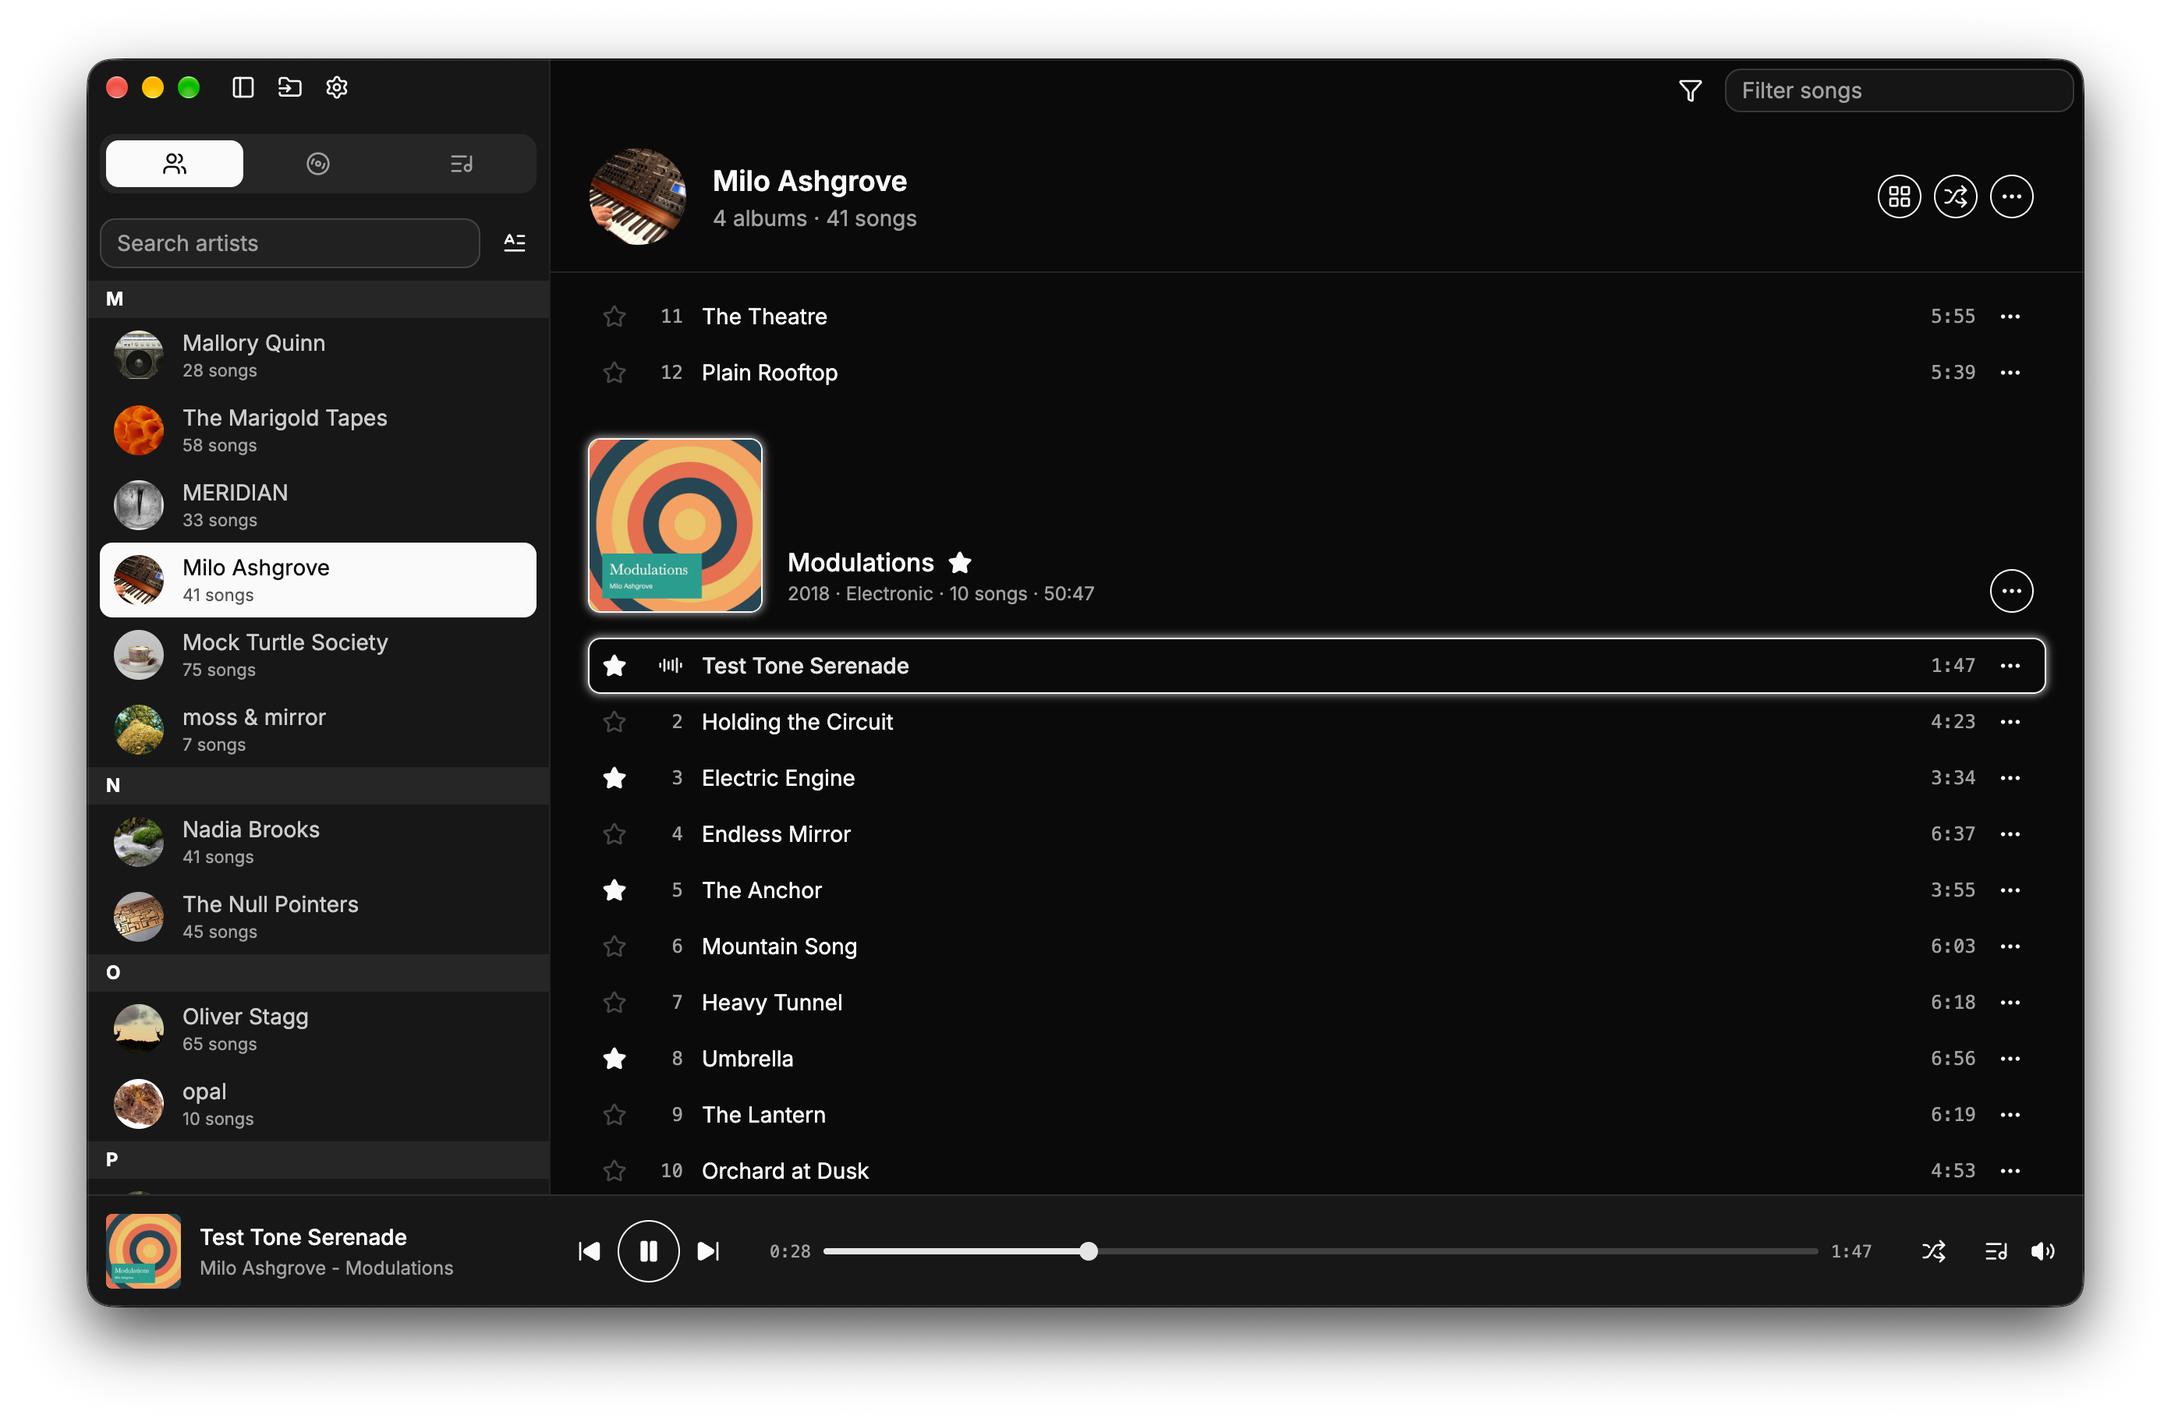
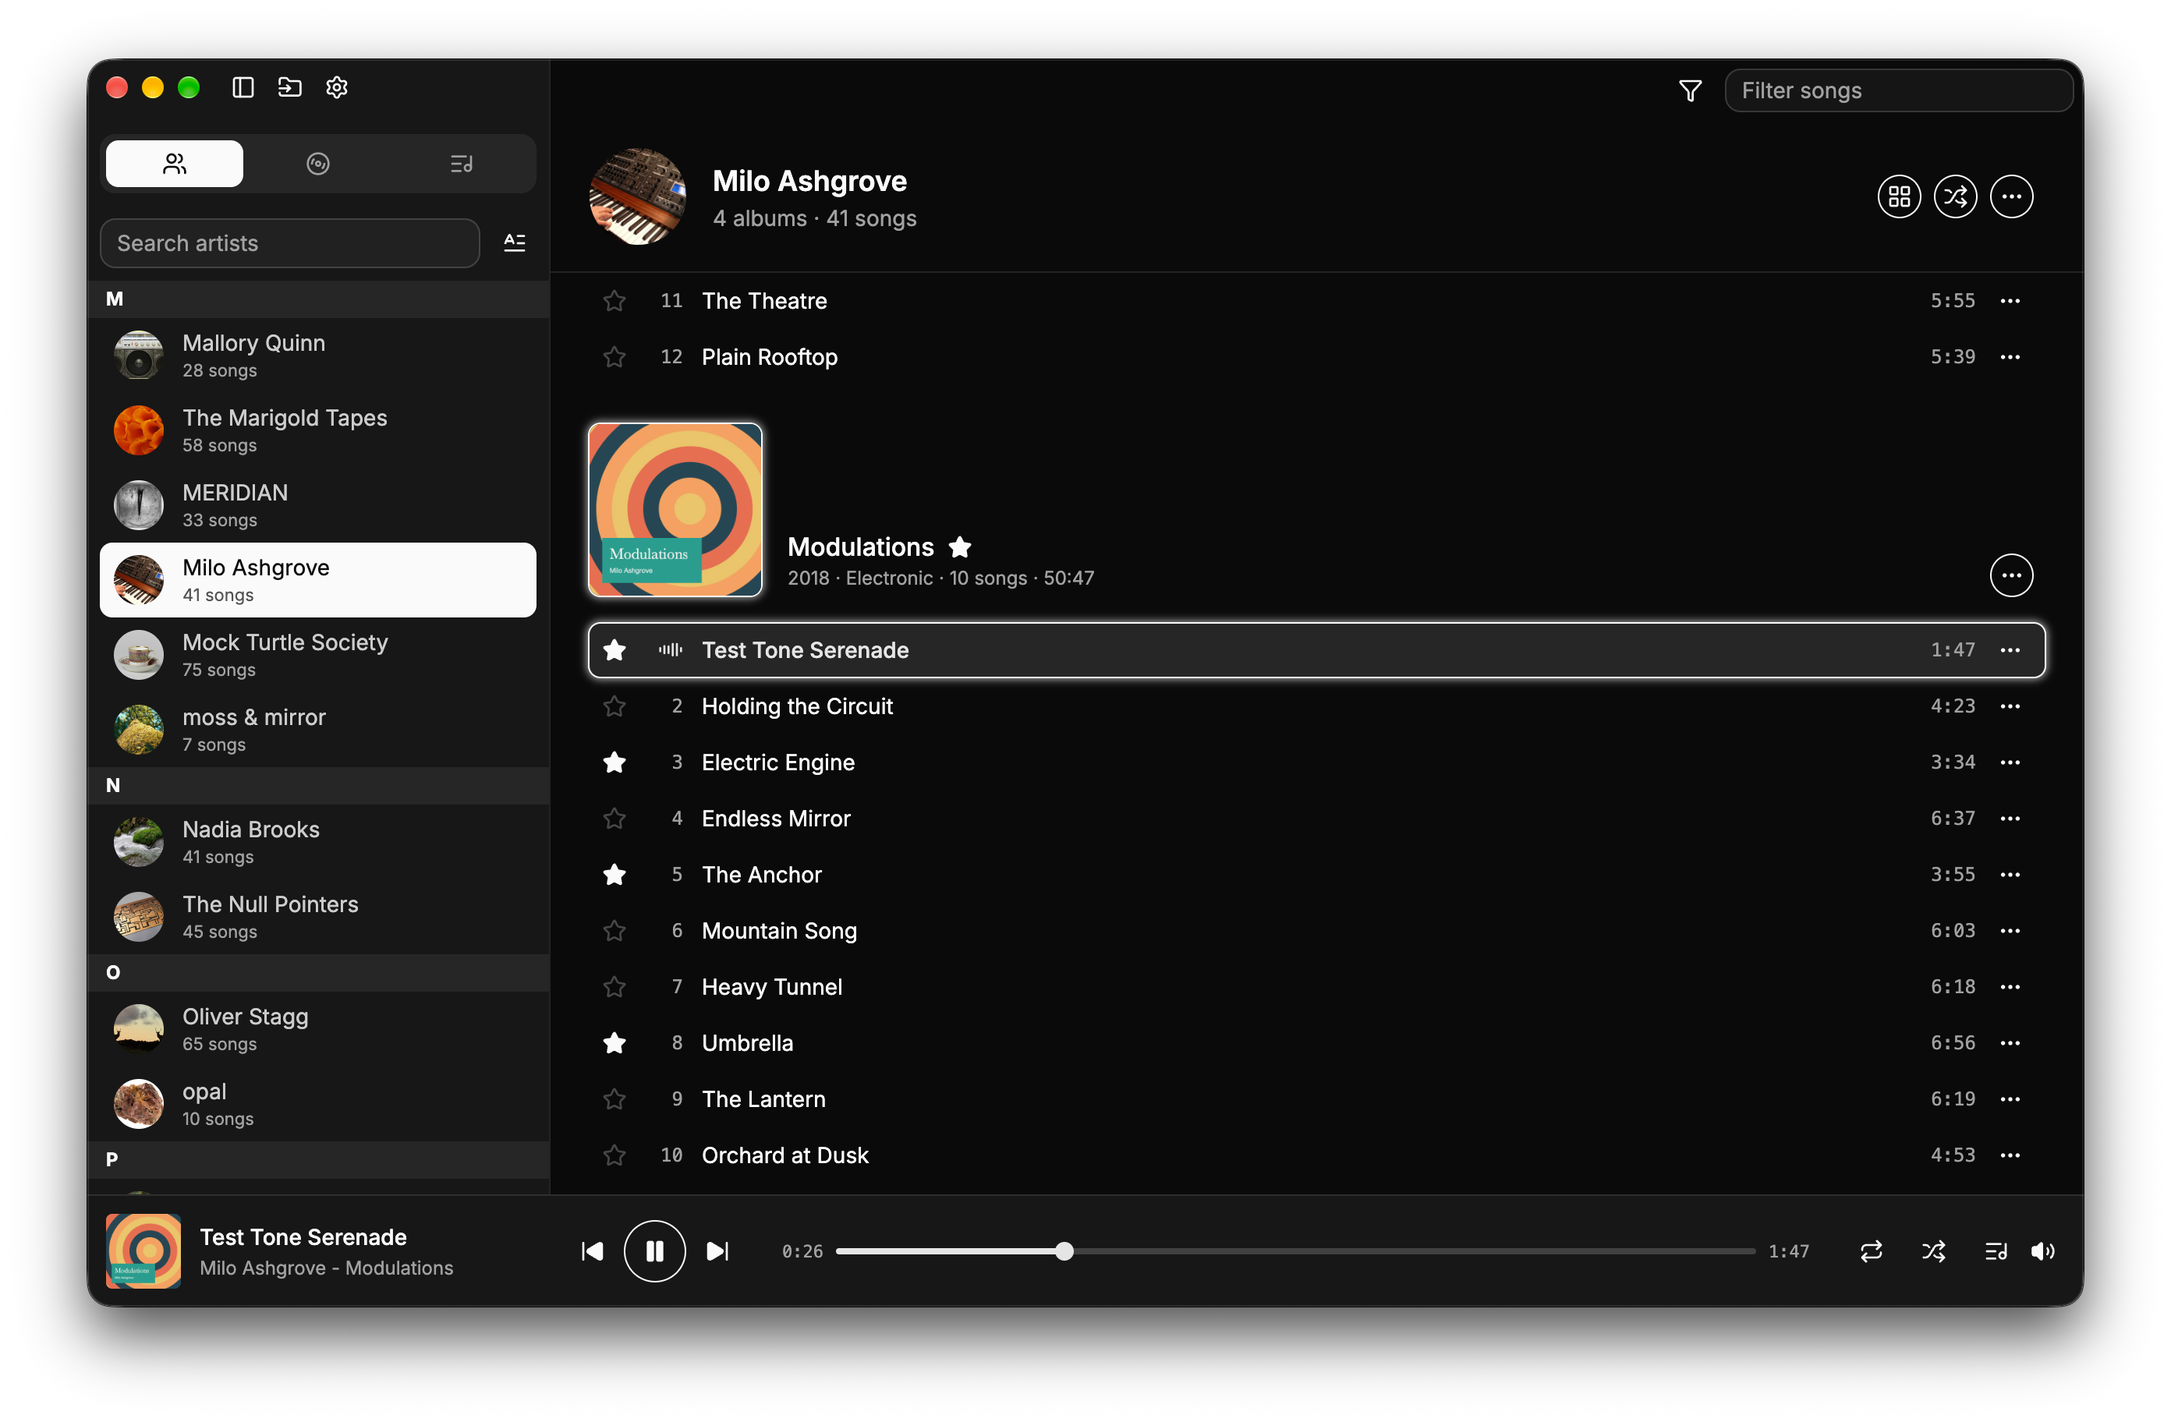
feat: 公式サイトにリピートの紹介を追加しスクリーンショットを撮り直す
v1.5 Phase 5 (公式サイト)。トップ ページの「Play your way」にリピートを足し、
プレーヤー バーが写る全シーンのスクリーンショットを撮り直す。

- home.feature.player.body (en / ja) にリピートを追加 (見出しと alt は変更なし)
- 8 シーンすべてを撮り直し。player はリピート all の点灯とキュー ポップオーバー
- player の切り出し上端を 816 から 796 に調整 (構図が 20px 上にずれたため)
- screenshots.md の AI 向け手順を CDP 方式に書き換え、top-page.md にリピートを追記

diff --git a/web/src/i18n/ja.ts b/web/src/i18n/ja.ts
@@ -52,7 +52,7 @@ export const ja: Dictionary = {
     "Details タブでタイトル、アーティスト、アルバム、ジャンル、年の入力欄を表示した曲情報ダイアログ",
   "home.feature.player.title": "好きなように再生する",
   "home.feature.player.body":
-    "再生キューに曲を並べ、シャッフルし、OS のメディア キーから操作できます。対応形式は mp3、flac、m4a / mp4、ogg / opus、wav、aiff、wma、ape です。",
+    "再生キューに曲を並べ、シャッフルし、アルバムや 1 曲をリピートし、OS のメディア キーから操作できます。対応形式は mp3、flac、m4a / mp4、ogg / opus、wav、aiff、wma、ape です。",
   "home.feature.player.alt":
     "曲を再生中のプレーヤー バーと、次に再生する曲を並べたキューのポップオーバー",
   "home.feature.theme.title": "ライトとダーク",

diff --git a/web/src/i18n/en.ts b/web/src/i18n/en.ts
@@ -54,7 +54,7 @@ export const en = {
     "Song info dialog with the Details tab showing the editable title, artist, album, genre and year fields",
   "home.feature.player.title": "Play your way",
   "home.feature.player.body":
-    "Queue songs up, shuffle them and control playback from the media keys of your OS. Parade plays mp3, flac, m4a / mp4, ogg / opus, wav, aiff, wma and ape.",
+    "Queue songs up, shuffle them, repeat an album or a single song, and control playback from the media keys of your OS. Parade plays mp3, flac, m4a / mp4, ogg / opus, wav, aiff, wma and ape.",
   "home.feature.player.alt":
     "Player bar with a song playing and the queue popover listing the upcoming songs",
   "home.feature.theme.title": "Light and dark",

diff --git a/docs/specs/web/features/screenshots.md b/docs/specs/web/features/screenshots.md
@@ -10,19 +10,26 @@
 
 ## 手順
 
-1. `pnpm demo` でアプリを起動する。初回はデモ用データの生成に 30 秒ほどかかる
+1. `pnpm demo` でアプリを起動する。初回はデモ用データの生成に 30 秒ほどかかる。AI が操作する場合は下記の CDP 方式で起動する
 2. 必要なら `pnpm demo:assets` で初期状態に戻す (前回の撮影で設定や選択を変えている場合)
 3. 撮影する画面ごとに [撮影する画面](#撮影する画面) の操作を行う
 4. ウィンドウ単位でキャプチャーする
-   - ウィンドウ ID (CGWindowID) を取得する: AI が操作する場合は `cmux-cua` の `list_windows`。人が撮る場合は `GetWindowID` (Homebrew) で `GetWindowID Electron --list` のように取得する。開発起動のプロセス名は `Electron`
+   - ウィンドウ ID (CGWindowID) を取得する: 人が撮る場合は `GetWindowID` (Homebrew) で `GetWindowID Electron --list` のように取得する。AI が操作する場合は `CGWindowListCopyWindowInfo` を呼ぶ小さな Swift スクリプト (scratchpad に書く) で取得する。開発起動のプロセス名は `Electron`
+   - 撮影の直前に `osascript` でアプリを前面にする。`screencapture -l` は前面にないウィンドウを非アクティブな見た目 (灰色の信号ボタン、小さい影) で撮る
    - `screencapture -l <windowId> <scene>.png` で保存する。影を含めたまま撮る (`-o` を付けない)。サイトでは枠や影を付けない前提 ([テーマとスタイル](../architecture/theme.md))
    - 保存先は Claude Code の scratchpad など、リポジトリーの外。マスク前の画像は commit しない
 5. [マスク](#マスク) を施して `web/src/assets/screenshots/<scene>.png` へ出力する
 6. 画像を目視で確認し、ファイル パス、ユーザー名、実在の人物や作品が写っていないことを確かめる
 
-AI が操作する場合は `cmux-cua` の `launch_app` ではなく `pnpm demo` で起動し (dev server と watch ビルドが必要)、起動後のウィンドウを `list_windows` で見つけて AX (Accessibility) 経由で操作します。Electron の AX ツリーはレンダラーの DOM を反映するので、サイドバーのタブや行はラベルで辿れます。AX で辿れない操作 (ドラッグ、hover) は座標指定のクリックとカーソル移動で行います。
+### AI が操作する場合 (CDP 方式)
 
-`cmux-cua` が使えない場合は、`pnpm build` のあとに `PARADE_USER_DATA_DIR=<demo-N のパス> electron dist/main/main.js --remote-debugging-port=<port>` で起動し、CDP (Chrome DevTools Protocol) の `Runtime.evaluate` と `Input.dispatchMouseEvent` でレンダラーを操作する方法もあります (v1.3 のトップ ページ実装はこの方法で撮影)。ウィンドウ ID は `CGWindowListCopyWindowInfo` を呼ぶ小さな Swift スクリプトで取得できます。`screencapture -l` は前面にないウィンドウを非アクティブな見た目 (灰色の信号ボタン、小さい影) で撮るので、撮影の直前に `osascript` でアプリを前面にします。
+AI (Claude Code) が操作する場合は CDP (Chrome DevTools Protocol) 方式で行います。v1.3 以降の撮影はすべてこの方法で、2026-10-18 にこれを標準にしました (`cmux-cua` による AX 経由の操作は Accessibility と Screen Recording の許可が必要なため使いません)。
+
+- 起動: `pnpm build` のあとに `PARADE_USER_DATA_DIR=<demo-N のパス> ./node_modules/.bin/electron dist/main/main.js --remote-debugging-port=9222` で起動する。`pnpm demo` は dev モードで CDP のポートを渡せないので使わない (デモ用データの生成が必要なら先に `pnpm demo:assets`)
+- 操作: `http://127.0.0.1:9222/json` の page ターゲットへ WebSocket で接続し、`Runtime.evaluate` でレンダラーの DOM を操作する。ボタンは `element.click()`、曲の再生は行への `dblclick` イベント、スクロールは `scrollTop`。仮想スクロールの行は見える位置までスクロールしないと DOM にない。設定で済む状態 (プレイリストのカラムなど) は `window.mp.settings.set` で書いて `location.reload()` すると早い
+- 前面: Electron は背面にあると描画を止める (requestAnimationFrame が走らず仮想スクロールも更新されない) ので、操作と撮影の前に `osascript` でアプリを前面にする
+- hover: 操作の最後に `mousemove` イベントで見出しの空き領域へポインターを移し、行の hover を残さない
+- 撮影とマスクは手順 4 以降と同じ。次の撮影まで時間が空くときはリピートを `one` にしておくと、曲の終端のエラー トーストを避けられる (撮影前に `off` へ戻す)
 
 ## 撮影する画面
 
@@ -36,7 +43,7 @@ AI が操作する場合は `cmux-cua` の `launch_app` ではなく `pnpm demo`
 | `playlists` | Playlists ビュー、テーブル | My Best を開く。コンテンツ ツールバーのカラム メニューで Album artist と Genre と Year を表示し、ウィンドウ幅に収まるようにカラム幅を縮める (Title 150、Artist 140、Album 140、Album artist 130、Genre 90、Year 60。v1.4 でお気に入りカラムが加わった分、Title を 190 から縮めた)。1 行目 (Test Tone Serenade) を再生中にする。お気に入りカラム (常に表示) には 1 行目のほか、8 行目 Hidden Map と 11 行目 Daydream in Slow Motion の Star を ON にしておく | 右クリック メニューは閉じる |
 | `favorites` | Artists ビュー、お気に入りとフィルター メニュー | `artists` と同じ構図 (Milo Ashgrove、Modulations の見出しが上から 2 行目、Test Tone Serenade を再生中。再生位置は問わない) で、曲リストの Star を 4 曲 (Test Tone Serenade、Electric Engine、The Anchor、Umbrella) クリックして ON にし、アルバム Modulations もアルバム メニューの Album info から Favorite を ON にして Apply する (見出しに Star が出る)。コンテンツ ツールバーの Funnel ボタンでフィルター メニューを開き、「Favorites only」の項目が見える状態にする (チェックは OFF のまま。ON にすると曲が減って Star の意味が伝わりにくい) | `artists` / `artists-light` / `player` の撮影でも同じ曲とアルバムを ON にしておく。`albums` では Jazz / 1990s のアルバムのうち Songs for the Parade、Atlas & Evening、Broken Desert をカードの Star で ON にする。デモ用データにお気に入りの初期値はないので、`pnpm demo:assets` で戻したときは付け直す |
 | `music-info` | 曲情報ダイアログ | Test Tone Serenade の行メニューから Song info を開き、Details タブを表示する | **File タブはファイル パスが出るので撮らない。** Details タブでもファイル名が見える場合はマスクする |
-| `player` | プレーヤー バーとキュー | `artists` と同じ構図で再生中にキュー ボタンでキュー ポップオーバーを開く (開いた直後はゴミ箱ボタンにフォーカスが移るので外す)。ウィンドウ全体を撮り、サイト側でプレーヤー バー付近を切り出す | 切り出しの座標はマスクの manifest に書く。切り出し範囲には曲リストの下半分が入るので、曲リストの見た目が変わる PR ではこのシーンも撮り直す |
+| `player` | プレーヤー バーとキュー | `artists` と同じ構図で再生中に、リピート ボタンを押して `all` (点灯) にし、キュー ボタンでキュー ポップオーバーを開く (開いた直後はゴミ箱ボタンにフォーカスが移るので外す)。ウィンドウ全体を撮り、サイト側でプレーヤー バー付近を切り出す | 切り出しの座標はマスクの manifest に書く。切り出し範囲には曲リストの下半分が入るので、曲リストの見た目が変わる PR ではこのシーンも撮り直す。リピートが点灯するのはこのシーンだけで、他のシーンは `off` のまま撮る |
 | `settings` | Settings ページ | サイドバーから Settings を開く。Theme が Dark、Language が English の状態 | ライブラリー統計はデモ用データの数値なのでそのままでよい |
 
 - 撮影の前に、トースト通知、ツールチップ、ホバー状態が残っていないことを確認する。再生できる曲は 1:47 で終わり、次の曲へ進むと再生エラーのトースト (ファイル パスを含む) が出るので、撮影のたびに再生し直す
@@ -54,7 +61,7 @@ AI が操作する場合は `cmux-cua` の `launch_app` ではなく `pnpm demo`
 
 - 撮影する画面の選び方で File タブと取り込みダイアログを避ける
 - モザイクは `web/scripts/maskScreenshots.ts` で掛ける。`sharp` で対象領域を 1/16 に縮小してから最近傍補間で元のサイズに戻し、元画像に合成する (ぼかしではなくモザイク。ぼかしは復元される可能性がある)
-- 領域は `web/screenshots.manifest.json` に scene ごとに記録する (`x`、`y`、`width`、`height`、2x の座標)。切り出し (`player`) も同じ manifest に書く
+- 領域は `web/screenshots.manifest.json` に scene ごとに記録する (`x`、`y`、`width`、`height`、2x の座標)。切り出し (`player`) も同じ manifest に書く。`player` は幅を 2784 のまま高さ 1008 で切り出し、上端は曲リストの再生中の行が枠線ごと入る位置にする (構図が数 px ずれたら撮り直すより `y` を直す)
 - 実行は `pnpm --filter parade-web screenshots:mask -- <input-dir>`。入力はマスク前の画像のディレクトリー、出力は `web/src/assets/screenshots/`
 
 ```json
@@ -63,7 +70,7 @@ AI が操作する場合は `cmux-cua` の `launch_app` ではなく `pnpm demo`
     "mask": [{ "x": 640, "y": 1180, "width": 1280, "height": 48 }]
   },
   "player": {
-    "crop": { "x": 0, "y": 1360, "width": 2560, "height": 240 }
+    "crop": { "x": 0, "y": 796, "width": 2784, "height": 1008 }
   }
 }
 ```

diff --git a/docs/specs/web/features/top-page.md b/docs/specs/web/features/top-page.md
@@ -25,7 +25,7 @@
 | Playlists and smart playlists | 手で並べる通常のプレイリストと、条件で自動更新されるスマート プレイリスト。カラムの表示、幅、並び順、ソートを変えられるテーブル (v1.3) | `playlists` |
 | Keep your favorites close | 曲とアルバムに Star を付け、どのビューでもひと目で分かる。フィルター メニューの「お気に入りのみ表示」でお気に入りだけに絞り込める (v1.4) | `favorites` |
 | Edit and complete metadata | 曲情報ダイアログでタイトル、アーティスト、アートワークなどを編集し、ファイルへ書き戻す (v1.1)。複数の曲をまとめて編集できる。MusicBrainz から不足している情報とアートワークを取得して補完する (v1.2) | `music-info` |
-| Play your way | 再生キュー、シャッフル、OS のメディア キー対応 (MediaSession)。対応形式: mp3, flac, m4a/mp4, ogg/opus, wav, aiff, wma, ape | `player` (プレーヤー バーとキュー ポップオーバー) |
+| Play your way | 再生キュー、シャッフル、リピート (アルバム全体と 1 曲。v1.5)、OS のメディア キー対応 (MediaSession)。対応形式: mp3, flac, m4a/mp4, ogg/opus, wav, aiff, wma, ape | `player` (プレーヤー バーとキュー ポップオーバー。リピートを `all` にして点灯した状態) |
 | Light and dark | OS に追従するダーク / ライト テーマ | `artists-light` |
 | English and Japanese | 設定ページで言語を English / 日本語 / System から選べる。テーマも同じ設定ページで切り替える。スクリーンショットは英語 UI だけなので、日本語対応はここで明記する | `settings` |
 
